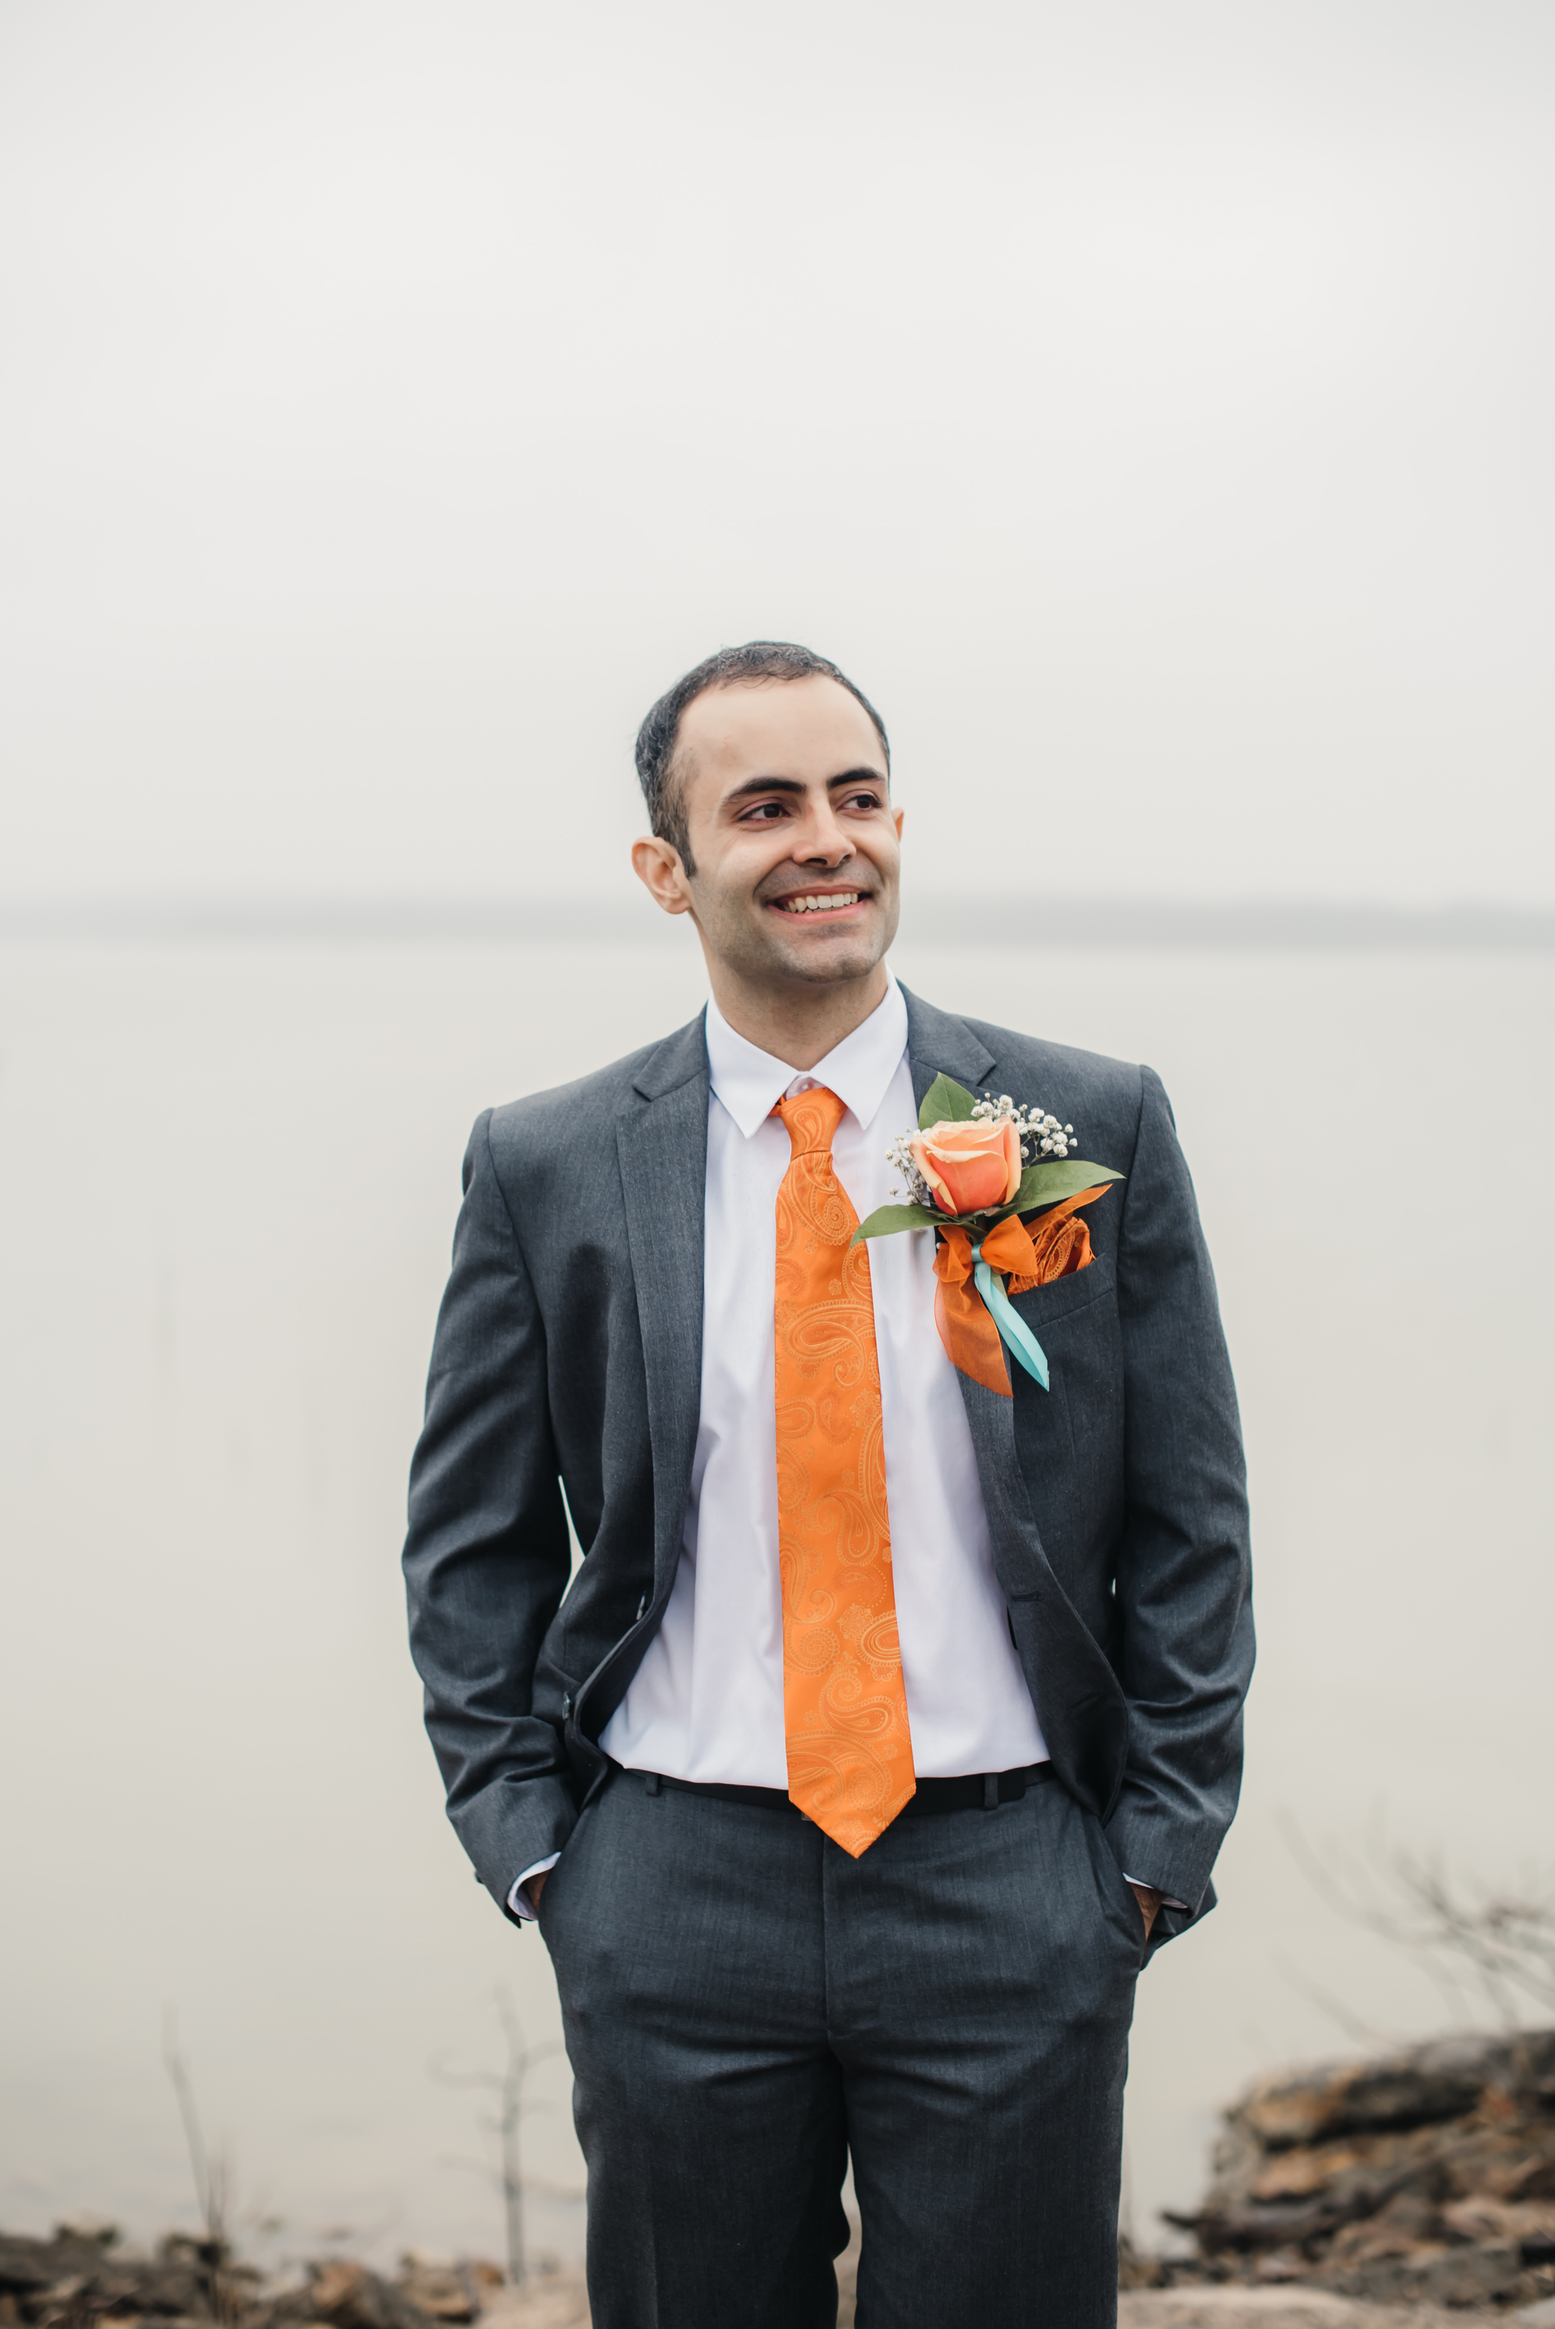
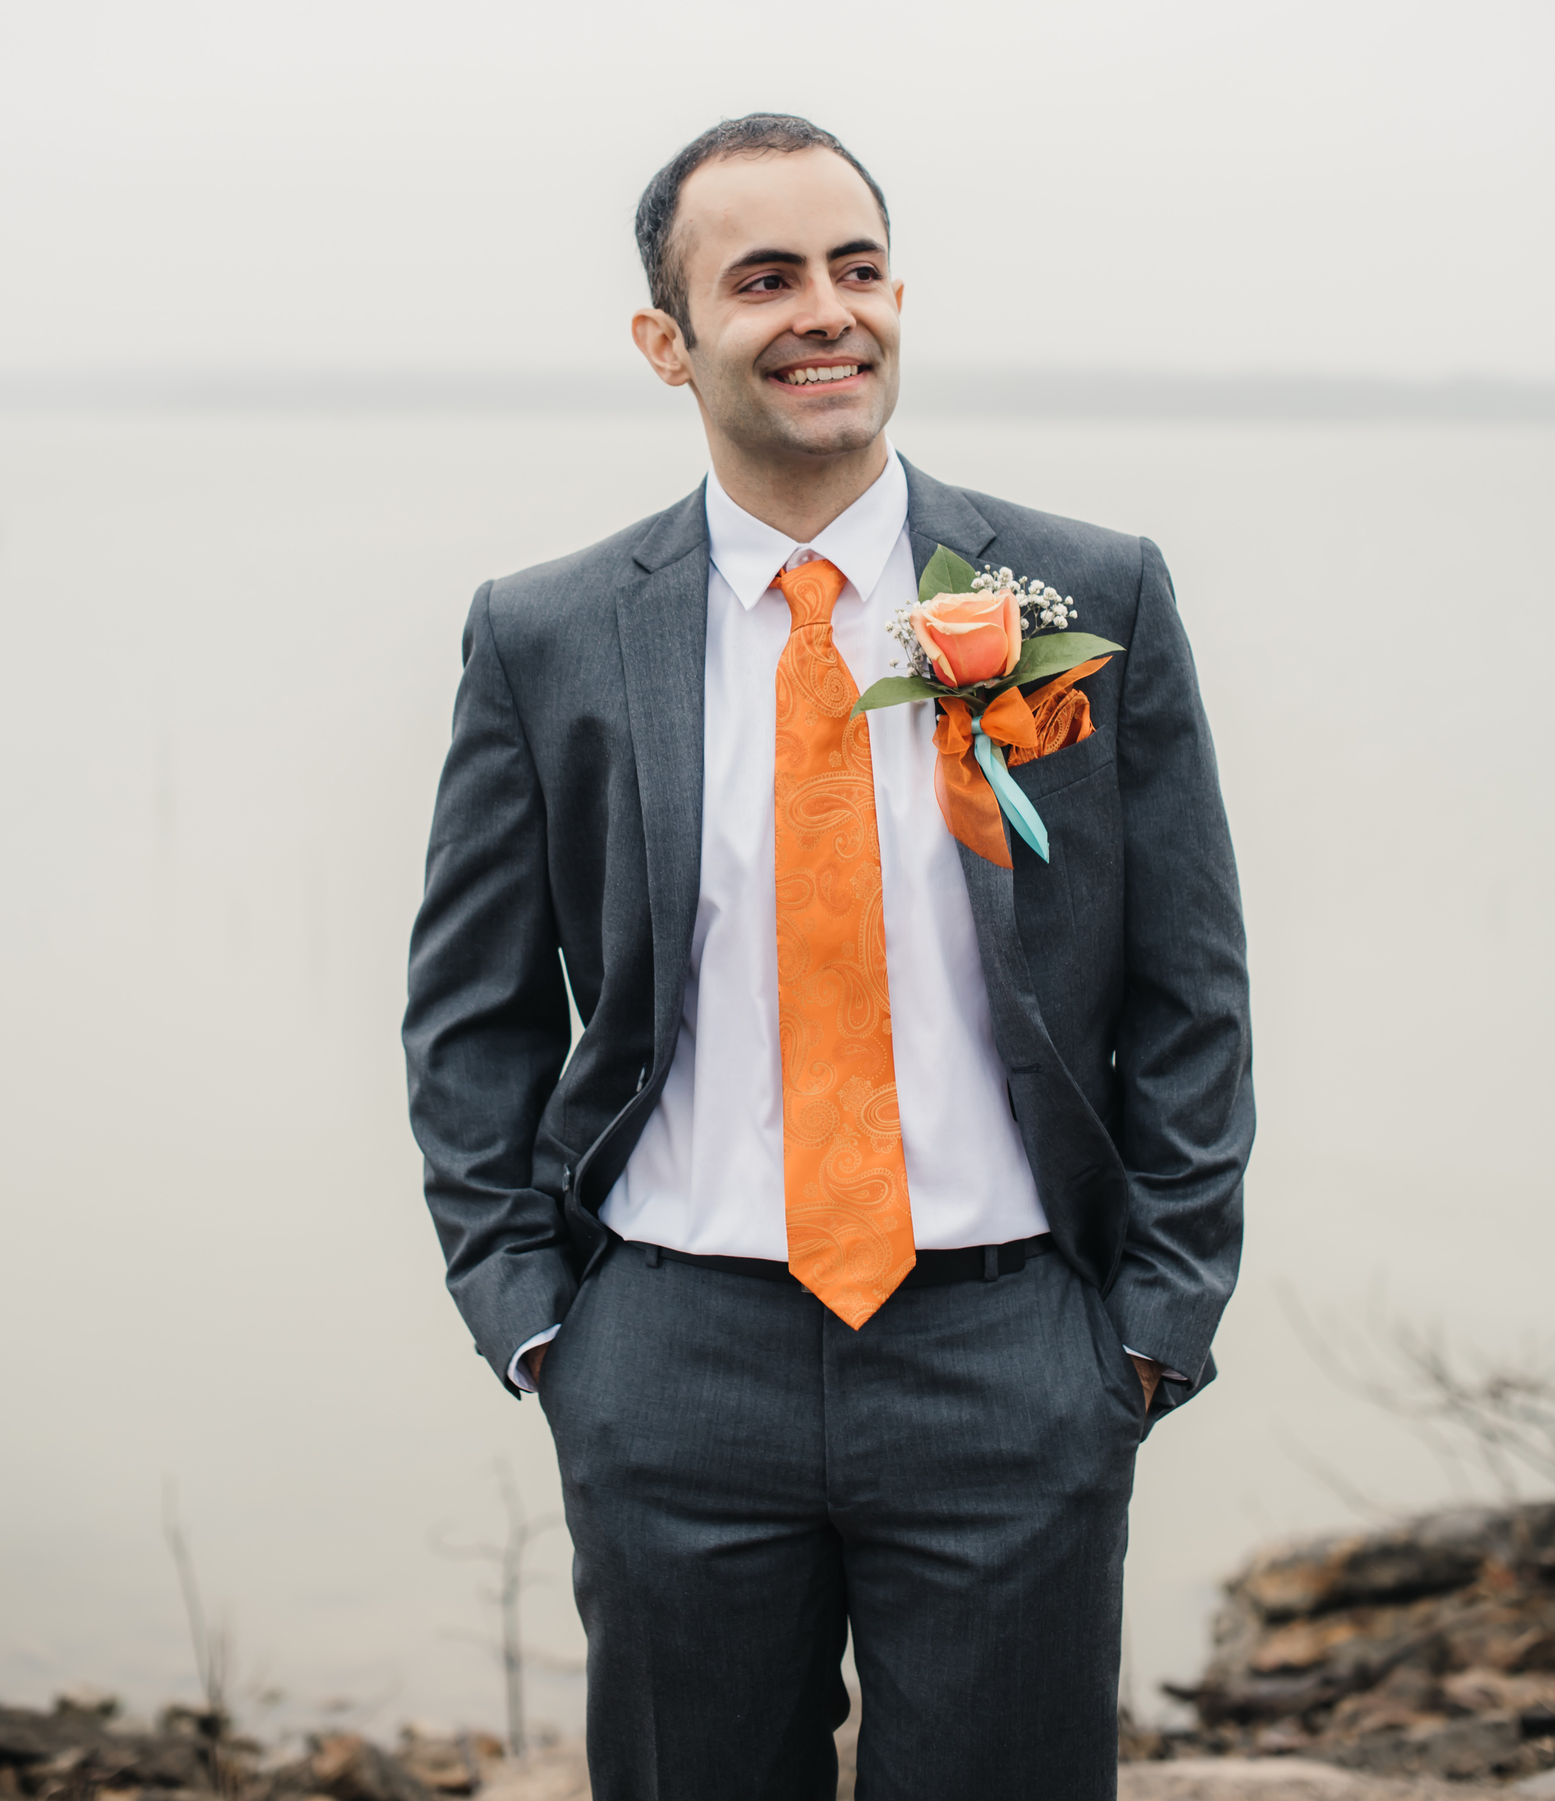
Styling and Responsiveness
Image and site now respond well to resizing for both mobile and desktop.

diff --git a/index.html b/index.html
@@ -2,107 +2,82 @@
 <title>Clint Myers</title>
 <meta charset="UTF-8">
 <meta name="viewport" content="width=device-width, initial-scale=1.0">
-<link rel="stylesheet" href="https://maxcdn.bootstrapcdn.com/bootstrap/4.0.0-beta/css/bootstrap.min.css" integrity="sha384-/Y6pD6FV/Vv2HJnA6t+vslU6fwYXjCFtcEpHbNJ0lyAFsXTsjBbfaDjzALeQsN6M" crossorigin="anonymous">
-<link href="https://fonts.googleapis.com/css?family=Droid+Serif|Merriweather|Oxygen:700|Cabin|Roboto" rel="stylesheet">
+<link href="https://fonts.googleapis.com/css?family=Droid+Serif|Merriweather|Oxygen:700|Cabin|Roboto|Pavanam" rel="stylesheet">
 <style>
 
-.grid {
-  display: grid;
-  grid-template-columns: 1fr;
-  grid-template-rows: 2fr;
-  background-color: black;
+body {
+	background-color: black;
+	margin: 0 auto;
+  color: white;
+  font-family: 'Pavanam', sans-serif;
 }
 
-img {
-  margin: 0px 0px 0px 0px;
-  max-width: 100%;
+.left-div {
+  width: 100%;
+  height: 100%;
+  background-image: url("clint.jpg");
+  background-position: center;
+  background-size: cover;
 }
 
-h2, h3, h4, h5, h6 {
-	text-align: center;
-	font-family: 'Oxygen';
+.right-div {
+  width: 100%;
 }
 
-.text1 {
-/*
-	margin: 40px 40px 40px 40px;
-	border-color: #E4691D;
-	border-width: 10px;
-	border-style: solid;
-*/
-	padding: 40px 40px 40px 40px;
-	color: white;
+.clint-photo {
+  width: 100%;
 }
 
-h1 {
-	font-size: 72pt;
-	font-family: Cabin;
+.text-div {
+  padding: 30px 30px 30px 30px;
+  text-align: center;
 }
 
 @media screen and (min-width: 736px) {
 
-  .grid {
-    display: grid;
-    grid-template-columns: 1fr 1fr;
-    grid-auto-columns: (100vh, 100vh)
-  }
+.left-div {
+  width: 50%;
+  height: 100%;
+  position: fixed;
+}
 
-  img {
-    position: fixed;
-    top: 0;
-    bottom: 0;
+.right-div {
+  width: 50%;
+  height: 100%;
+  float: right;
+}
 
-    max-width: 100vh;
-    margin: auto;
-    overflow: hidden;
-    z-index: 0;
-  }
+.clint-photo {
+}
 
-  .text1 {
-  	height: 100vh;
-  	z-index: 1;
-  }
 }
 
 </style>
 
 <body>
 
-  <div class="grid">
-    <div class="photo1">
-      <img src="clint.jpg">
+  <div class="main-div">
+    <div class="left-div">
+      <div class="clint-photo"></div>
     </div>
-    <div class="text1">
-      <h1>CLINT MYERS</h1>
-      <br>
-      <h3>Metallurgist, Developer, Problem Solver</h2>
-      <br>
-      <h2>Let's make something, <i><strong>together!</strong></i></h2>
-      <br>
-      <p><strong>Work</strong></p>
-      <p>Future: Seeking a position as a full time front end web developer</p>
-      <p>Present: Professional Metallurgical Engineer and Failure Analyst</p>
-      <p>Past: High School Math & Science Education</p>
-      <br>
-      <p><strong>Education</strong></p>
-      <p>BS, Metallurgical and Materials Engineering, Colorado School of Mines</p>
-      <br>
-
-
+    <div class="right-div">
+      <div class="text-div">
+        <h1>CLINT MYERS, PE</h1>
+        <h2>Let's make something, <i><strong>better.</strong></i></h2>
+        <br>
+        <p><strong>Work</strong></p>
+        <p>Future: Voracious Student of the Front End Dev Game</p>
+        <p>Present: Metallurgical Engineer @ Hurst Metallurgical</p>
+        <p>Past: Math/Science Instructor @ Early College HS (HCISD)</p>
+        <br>
+        <p><strong>Education</strong></p>
+        <p>BS, Metallurgical and Materials Engineering, Colorado School of Mines</p>
+        <br>
+        <p><strong>Endorsement</strong></p>
+        <p>"When we have a new product in the works, Clint is the first person we call for advice on material selection and testing. He helps us effectively communicate our needs to potential suppliers to make sure we can manufacture high quality, cost-effective products"</p>
+        <p>-Alejandro Moreno- Tandem Automotive</p>
+      </div>
     </div>
   </div>
-
-
-
-
-
-
-
-
-<!-- JS Scripts for Bootstrap - KEEP AT THE END OF THE BODY -->
-
-  <script src="https://code.jquery.com/jquery-3.2.1.slim.min.js" integrity="sha384-KJ3o2DKtIkvYIK3UENzmM7KCkRr/rE9/Qpg6aAZGJwFDMVNA/GpGFF93hXpG5KkN" crossorigin="anonymous"></script>
-  <script src="https://cdnjs.cloudflare.com/ajax/libs/popper.js/1.11.0/umd/popper.min.js" integrity="sha384-b/U6ypiBEHpOf/4+1nzFpr53nxSS+GLCkfwBdFNTxtclqqenISfwAzpKaMNFNmj4" crossorigin="anonymous"></script>
-  <script src="https://maxcdn.bootstrapcdn.com/bootstrap/4.0.0-beta/js/bootstrap.min.js" integrity="sha384-h0AbiXch4ZDo7tp9hKZ4TsHbi047NrKGLO3SEJAg45jXxnGIfYzk4Si90RDIqNm1" crossorigin="anonymous"></script>
 </body>
 </html>
